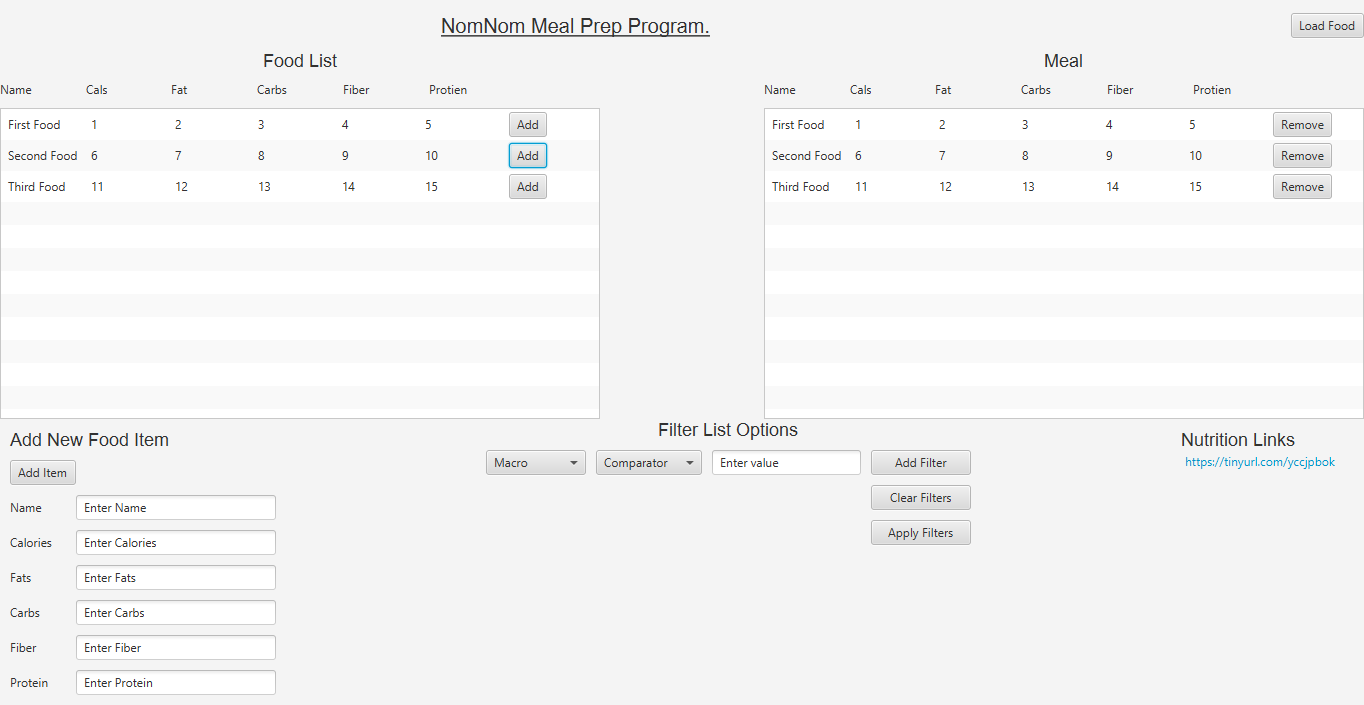
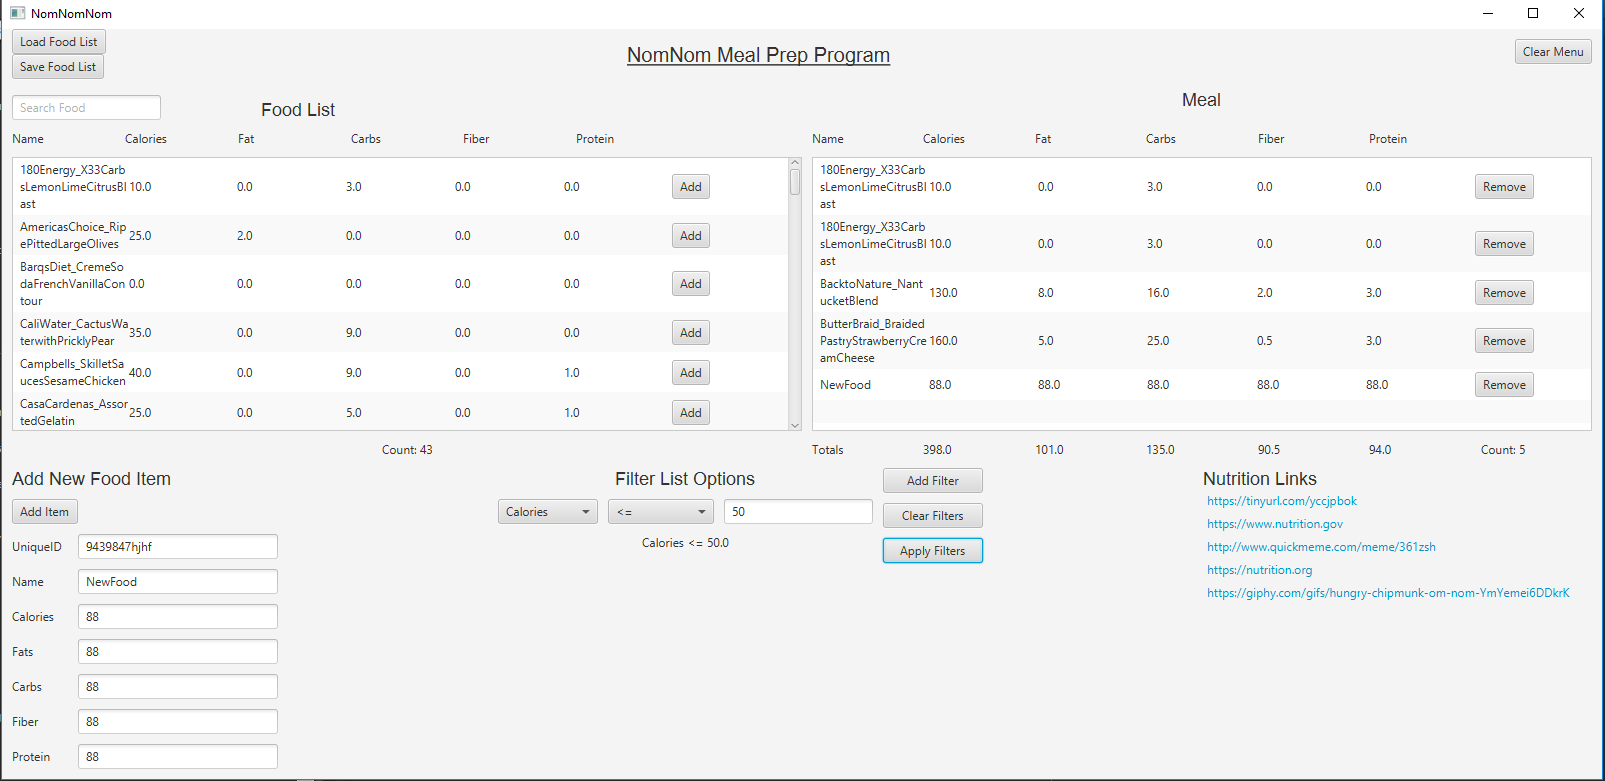
Prepare project for submission.

diff --git a/application/Main.java b/application/Main.java
@@ -711,7 +711,9 @@ public class Main extends Application {
         } catch (Exception e1) {
           e1.printStackTrace();
         }
-			}
+        foodList.retainAll(foodMaster.filterByName(searchBar.getText().toUpperCase()));
+        updateFoodCount();
+        }
 		});
 	}
 	/**
